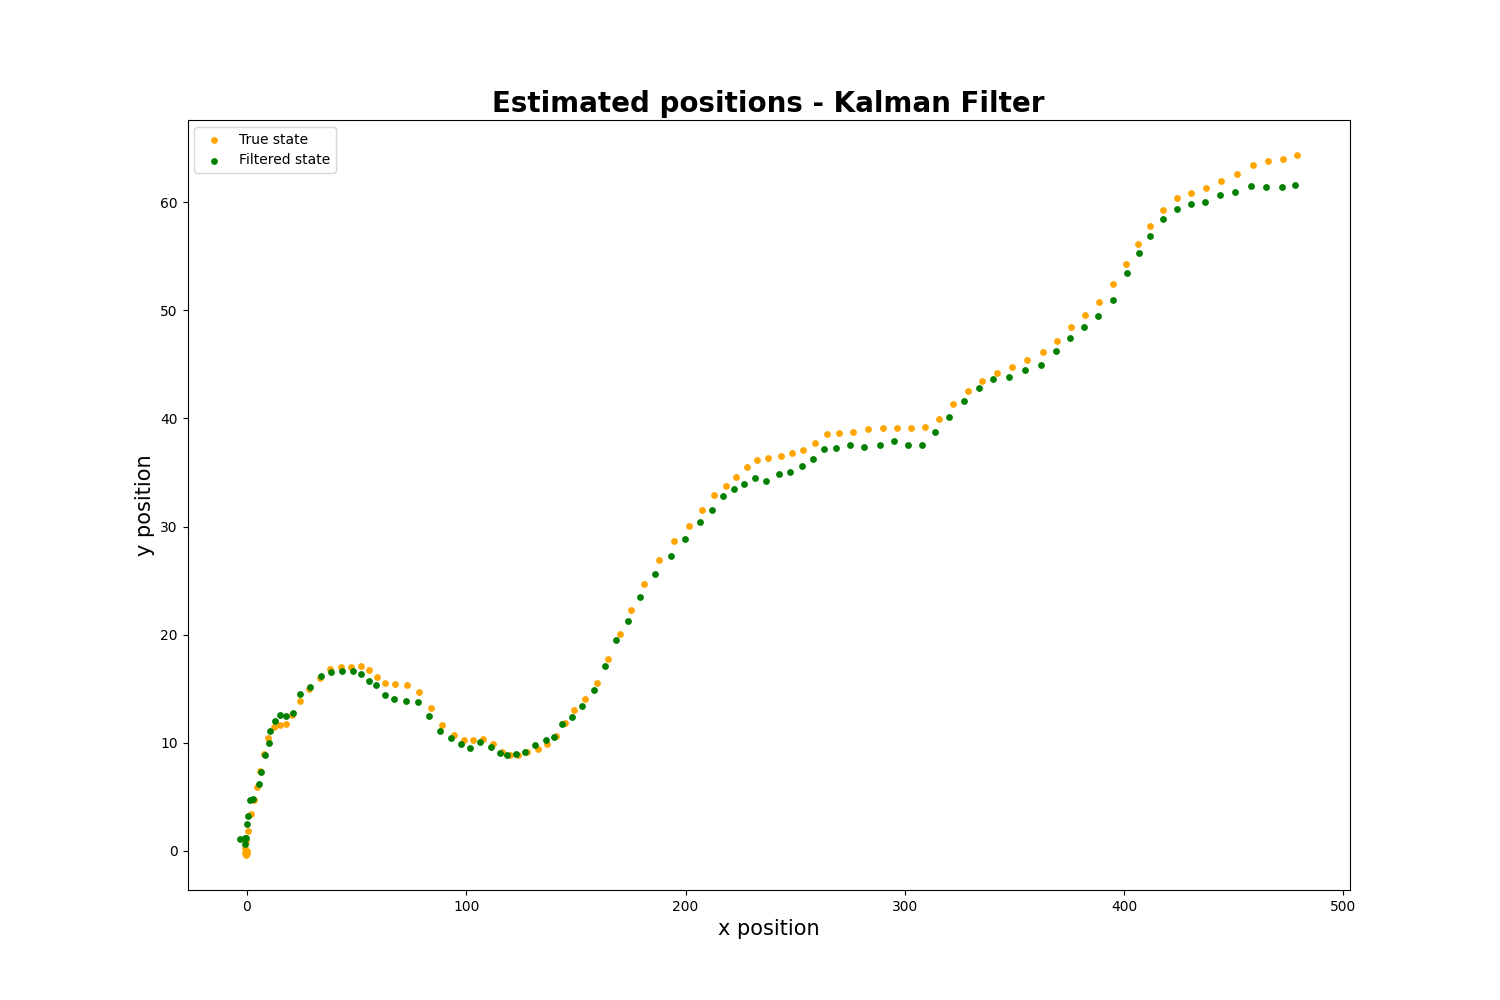
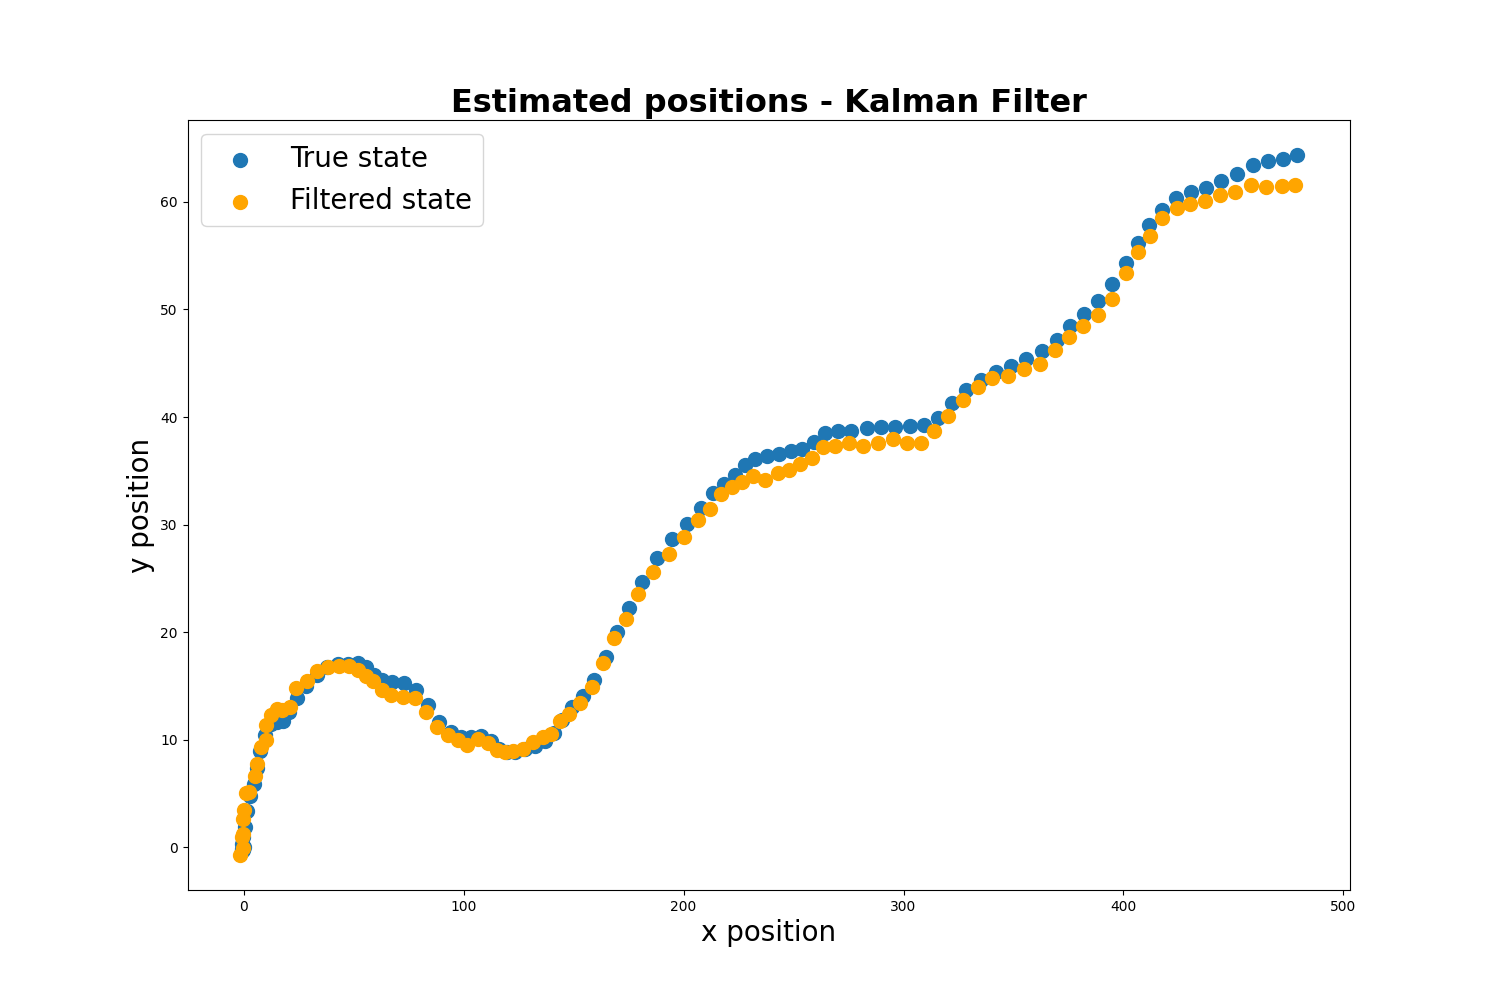
z

diff --git a/Part2/particle_filter.py b/Part2/particle_filter.py
@@ -3,41 +3,43 @@ import random
 import matplotlib.pyplot as plt
 import scipy.stats as scp
 
+# cov=[[1,0],[0,1]]
+# pdf = lambda x: (1 / (2 * np.pi * np.sqrt(np.linalg.det(cov)))) * np.exp(
+#     -0.5 * np.dot(np.dot((x[0], x[1]), np.linalg.inv(cov)), np.array([x[0], x[1]]).T)
+# )
 #definir la pdf normale
-pdf = lambda x : 1/(2*np.pi) * np.exp(-0.5*(x[0]**2+x[1]**2))
+pdf = lambda x : 1/np.sqrt((2*np.pi)) * np.exp(-0.5*(x @ x.T))
 
-def system_mat(dt):
-    A = np.eye(4)
-    B=np.zeros((4,2))
-    G=np.zeros((4,2))
+dt = 0.1
+A = np.eye(4)
+B=np.zeros((4,2))
+G=np.zeros((4,2))
 
-    #defining A
-    A[0][2]=dt
-    A[1][3]=dt
+#defining A
+A[0][2]=dt
+A[1][3]=dt
 
-    #defining B 
-    B[0][0]=1/2*dt**2
-    B[1][1]=1/2*dt**2
-    B[2][0]=dt
-    B[3][1]=dt
+#defining B 
+B[0][0]=1/2*dt**2
+B[1][1]=1/2*dt**2
+B[2][0]=dt
+B[3][1]=dt
 
-    #defining G
-    G[0][0]=1/2*dt**2
-    G[1][1]=1/2*dt**2
-    G[2][0]=dt
-    G[3][1]=dt
-
-    return A, B, G
+#defining G
+G[0][0]=1/2*dt**2
+G[1][1]=1/2*dt**2
+G[2][0]=dt
+G[3][1]=dt
 
 #Prediction using Gauss-Markov Model
-def Prediction(x,u,w,A,B,G):
+def Prediction(x,u,w):
     x_k=x
     for i in range(len(x)):
-        x_k[i]=A @ x[i] + B @ u[i]+ G @ w[i]
+        x_k[i]=A @ x[i] + B @ u + G @ w[i]
     return x_k
 
 def compute_weights(particles, observations, N):
-    weights = np.zeros(N)
+    weights = np.zeros(len(particles))
 
     for i in range(len(particles)):
         # Calculate predicted observation using x
@@ -45,22 +47,35 @@ def compute_weights(particles, observations, N):
         # x = particles[i]
         # Calculate the difference between predicted observation and actual observation
         #diff = observations[i] - particles[i,:2]
-        diff = observations - particles[i,:2]
+        # if(i==0):
+        #     print("obs shape : "+str(observations.shape))
+        #     print("part shape : "+str(particles.shape))
 
+        diff = observations - particles[i,:2]
+        #diff = np.array([observations[0] - particles[i][0],observations[0] - particles[i][1]])
+                        
         # Calculate the weight using the difference and a normal distribution
         #weight = 1 / np.sqrt(2 * np.pi) * np.exp(-0.5 * (diff**2))
         #print( scp.norm.pdf(diff,loc=0,scale=1))
         #weights[i]=scp.norm.pdf(diff,loc=0,scale=1).prod()
+
+        # mult_norm = scp.multivariate_normal(mean=[0,0],cov=[[1,0],[0,1]])
+        # weights[i] = mult_norm.pdf(diff)
+
         weights[i] = pdf(diff)
+
         if(weights[i]==0):
             weights[i]+=1e-12
 
-    #Normalize the weights
-    if(np.sum(weights)==0):
-        weights/=1e-12
-        return weights
-    weights /= np.sum(weights)
-
+    sum = np.sum(weights)
+    if sum ==0:
+        sum += 1e-12
+    weights /= sum #diviser par la norme
+    # print(weights)
+    # norm = np.linalg.norm(weights)
+    # if norm ==0:
+    #     norm += 1e-12
+    # weights /= norm
     return weights
 
 def resample(particles, weights):
@@ -68,10 +83,9 @@ def resample(particles, weights):
     resampled_particles = particles[indices]
     return resampled_particles
 
-
 def particle_filter(input, obs,dt,N,Np,mean_i,cov_i, mu, beta):
     w_k=np.random.gumbel(mu, beta, size=(Np, 2))
-    A,B,G=system_mat(dt)
+
     #-------------------------------------------
     #Step 1: Generate N random samples
     #-------------------------------------------
@@ -81,7 +95,7 @@ def particle_filter(input, obs,dt,N,Np,mean_i,cov_i, mu, beta):
     #to store the different results we will find 
     res=np.empty((N,4))
     res[0] = np.mean(particles,axis=0)
-    particles=np.array([np.mean(particles,axis=0) for _ in range(N)])
+    # particles=np.array([np.mean(particles,axis=0) for _ in range(Np)])
 
     for t in range(N-1):
         #-------------------------------------------
@@ -89,8 +103,7 @@ def particle_filter(input, obs,dt,N,Np,mean_i,cov_i, mu, beta):
         #-------------------------------------------
         #TODO
         #faut mettre les bons vecteurs
-        particles=Prediction(particles,input,w_k,A,B,G)
-        
+        particles=Prediction(particles,input[t],w_k)
 
         #-------------------------------------------
         #Step 3: Update
@@ -115,11 +128,10 @@ def particle_filter(input, obs,dt,N,Np,mean_i,cov_i, mu, beta):
     return res
 
 
-
-
 input_data = np.loadtxt('data_files/Input.txt')
 observation_data = np.loadtxt('data_files/Observations.txt')
 true_data = np.loadtxt('data_files/True_data.txt')
+
 #-------------------------------------------
 #Prep
 #Creating the system 
@@ -140,14 +152,13 @@ beta=1                  # Beta parameter for random acceleration Gumbel distribu
 
 
 sol=np.array(particle_filter(input_data,observation_data,dt,N,Np,mean_i,cov_i,mu,beta))
-for i in range(100):
+for i in range(500):
     sol+=np.array(particle_filter(input_data,observation_data,dt,N,Np,mean_i,cov_i,mu,beta))
 
-sol/=101
+sol/=501
 
 mse = np.mean((true_data[:2] - sol[:2]) ** 2)
 print("MSE="+str(mse))
-
 
 fig, ax = plt.subplots()
 
@@ -166,10 +177,7 @@ ax.set_title('Comparison of Particle Filter Solution and True Data')
 ax.legend()
 
 #Save plot
-plt.savefig('plots/particle.png')
+plt.savefig('plots/particle_nul_2.png')
 
 # Show the plot
 # plt.show()
-
-
-

diff --git a/Part2/kalman_filter.py b/Part2/kalman_filter.py
@@ -15,12 +15,6 @@ dt = 0.1                # [sec]
 gamma = 0.5772          # Euler cste
 mu=1                    # Mu parameter for random acceleration Gumbel distribution
 beta=1                  # Beta parameter for random acceleration Gumbel distribution
-#initial state
-X0_moy = 10
-X0 = np.array([X0_moy,X0_moy,X0_moy,X0_moy])
-X_k = X0
-X = np.empty((n,4))
-X[0] = X0
 
 #------------------------------------
 # Matrices
@@ -61,6 +55,7 @@ def predict(u_k):
                 # X_pred_k = A*X_pred_k-1 + B*u_k + G (mu + beta*gamma, mu + beta*gamma)
     X_k = np.dot(A,X_k) + np.dot(B, u_k) + np.dot(Q,shift_term)
     P = np.dot(np.dot(A, P), A.T) + Q 
+
 def update(y):
     global P
     global X_k
@@ -73,6 +68,15 @@ def update(y):
 def MSE_k(k):
     err = np.array([x_true_pos[k] - X_k[0],y_true_pos[k] - X_k[1]])
     return np.linalg.norm(err,ord=2)**2 
+
+#initial state
+X0_moy = 10
+X0 = np.array([X0_moy,X0_moy,X0_moy,X0_moy])
+X_k = X0
+X = np.empty((n,4))
+X[0] = X0
+y_0 = np.array([x_noisy_obs[0],y_noisy_obs[0]])
+update(y_0)
 
 #------------------------------------
 # Run the filter
@@ -102,19 +106,29 @@ print('MSE = ' + str(MSE))
 #------------------------------------
 
 fig = plt.figure(figsize=(15,10))
-fig = plt.title("Estimated positions - Kalman Filter",fontsize=20,fontweight='bold')
-fig = plt.scatter(x_true_pos,y_true_pos,color='orange',label='True state',s=15)
-fig = plt.scatter(X.T[0],X.T[1],color='green',label='Filtered state',s=15)
-fig = plt.xlabel('x position',fontsize=15)
-fig = plt.ylabel('y position',fontsize=15)
-fig = plt.legend()
+fig = plt.title("Estimated positions - Kalman Filter",fontsize=23,fontweight='bold')
+fig = plt.scatter(x_true_pos,y_true_pos,label='True state',s=100)
+fig = plt.scatter(X.T[0],X.T[1],color='orange',label='Filtered state',s=100)
+fig = plt.xlabel('x position',fontsize=20)
+fig = plt.ylabel('y position',fontsize=20)
+fig = plt.legend(fontsize=20)
 fig = plt.savefig("plots/kalman_filter.png")
 # plt.show()
 fig_MSE = plt.figure(figsize=(15,10))
-fig_MSE = plt.title("Kalman Filter MSE",fontsize=20,fontweight='bold')
+fig_MSE = plt.title("Kalman Filter MSE",fontsize=23,fontweight='bold')
 fig_MSE = plt.plot(np.arange(0,N),MSE_arr,label='MSE Kalman filter')
-fig_MSE = plt.xlabel('Iteration',fontsize=15)
-fig_MSE = plt.ylabel('MSE',fontsize=15)
-fig_MSE = plt.legend()
+fig_MSE = plt.xlabel('Iteration',fontsize=20)
+fig_MSE = plt.ylabel('MSE',fontsize=20)
+fig_MSE = plt.legend(fontsize=20)
 fig_MSE = plt.savefig("plots/kalman_MSE.png")
 # plt.show()
+text = 'MSE = '+str(MSE)
+bbox_props = dict(boxstyle='round', facecolor='white', edgecolor='black',pad=0.6)
+fig_err = plt.figure(figsize=(15,10))
+fig_err = plt.title("Kalman Filter Error",fontsize=23,fontweight='bold')
+fig_err = plt.hist(MSE_arr,bins=10,color='green',alpha=0.4,edgecolor='black')
+fig_err = plt.text(0.65, 0.95,text, fontsize =18, ha='left', va='top', bbox=bbox_props,transform=plt.gca().transAxes)
+fig_err = plt.xlabel('Error',fontsize=20)
+fig_err = plt.ylabel('Frequence',fontsize=20)
+fig_err = plt.legend(fontsize=20)
+fig_err = plt.savefig("plots/kalman_Err.png")
